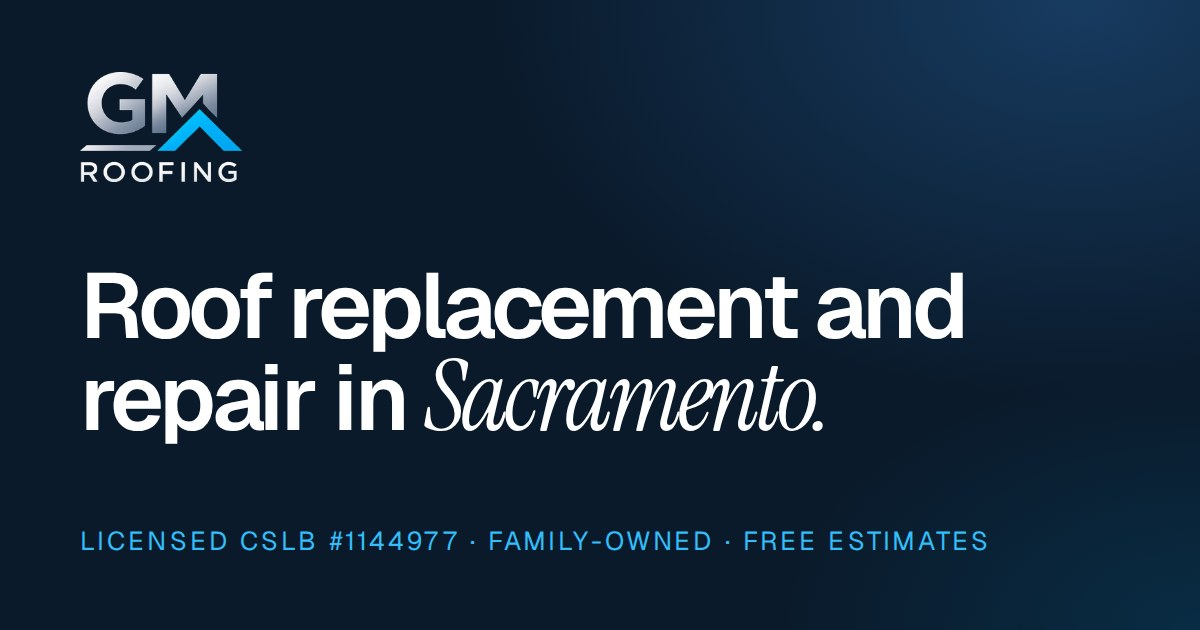
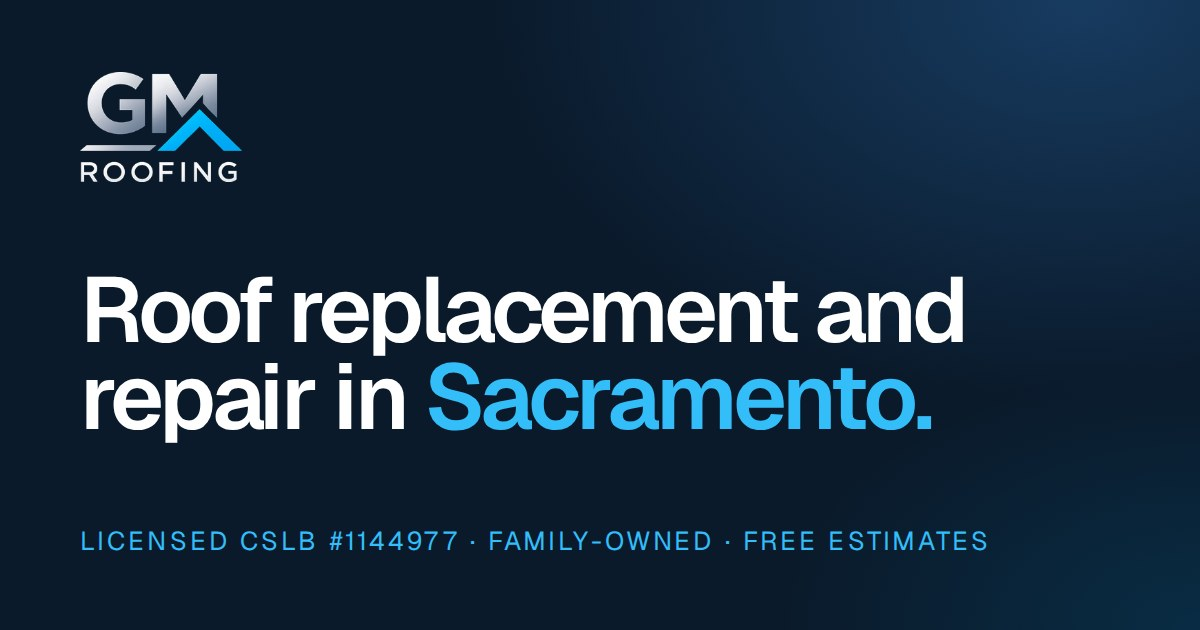
Replace cursive serif accents with brand-blue color
Highlighted words in headings now use the same typeface in blue (light
blue on dark sections, deeper blue on light for contrast). Numbers and
the About quote also switch to Geist. Instrument Serif removed, so one
less font file to load. Share image updated to match.

Claude-Session: https://claude.ai/code/session_015PbdfeDUaowrB1mfe7j9pj

Changed region(s): [[0.0617, 0.4222, 0.8017, 0.573], [0.3083, 0.573, 0.8017, 0.6937], [0.0925, 0.6032, 0.2158, 0.6937]]

diff --git a/src/styles/global.css b/src/styles/global.css
@@ -5,7 +5,6 @@
 */
 
 @import "@fontsource-variable/geist";
-@import "@fontsource/instrument-serif/400-italic.css";
 
 :root {
   /* ---- Color ---- */
@@ -26,7 +25,6 @@
 
   /* ---- Type ---- */
   --font-sans: "Geist Variable", ui-sans-serif, system-ui, -apple-system, "Segoe UI", sans-serif;
-  --font-serif: "Instrument Serif", ui-serif, Georgia, serif;
 
   --fs-xs: 0.8125rem;
   --fs-sm: 0.9375rem;
@@ -108,14 +106,14 @@ h3 { font-size: var(--fs-h3); line-height: 1.2; letter-spacing: -0.02em; }
 .section--paper { background: var(--paper); }
 .section--dark { background: var(--ink); color: var(--white); }
 
-/* Serif italic accent inside headings: <h2>Done <em>right.</em></h2> */
-h1 em, h2 em, h3 em, .serif {
-  font-family: var(--font-serif);
-  font-style: italic;
-  font-weight: 400;
-  letter-spacing: -0.01em;
+/* Color accent inside headings: <h2>Roof repair in <em>Sacramento.</em></h2>
+   Same typeface, brand blue. Light blue on dark backgrounds. */
+h1 em, h2 em, h3 em, blockquote em {
+  font-style: normal;
+  color: var(--accent);
 }
-h1 em, h2 em { font-size: 1.08em; line-height: 0.9; }
+.on-dark h1 em, .on-dark h2 em, .on-dark h3 em,
+.section--dark h1 em, .section--dark h2 em, .section--dark h3 em { color: var(--accent-soft); }
 
 .eyebrow {
   display: inline-flex;
